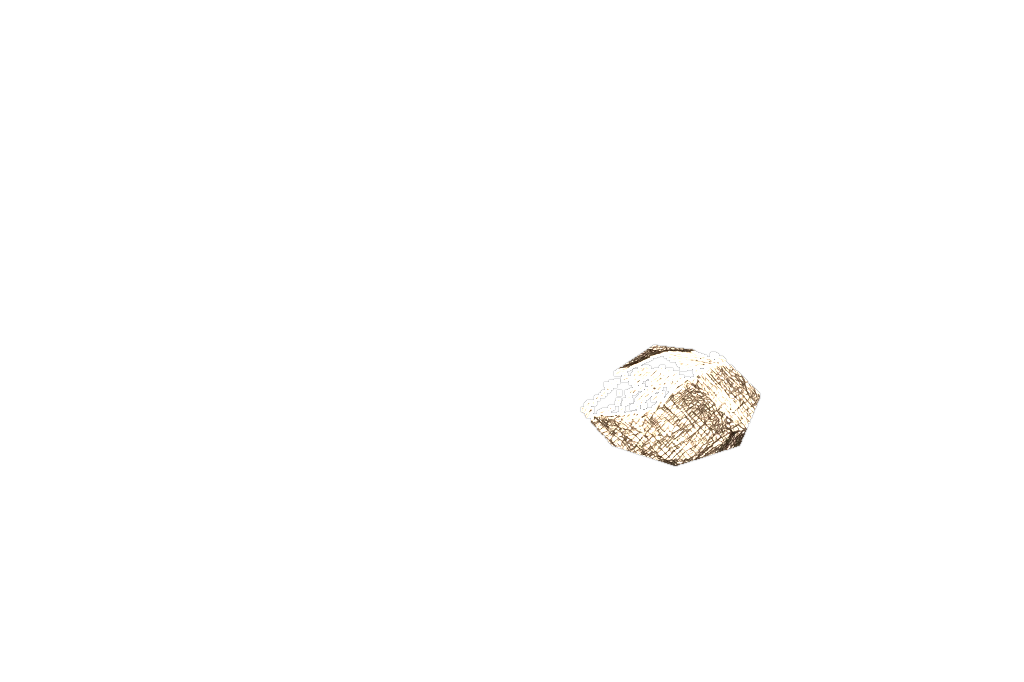
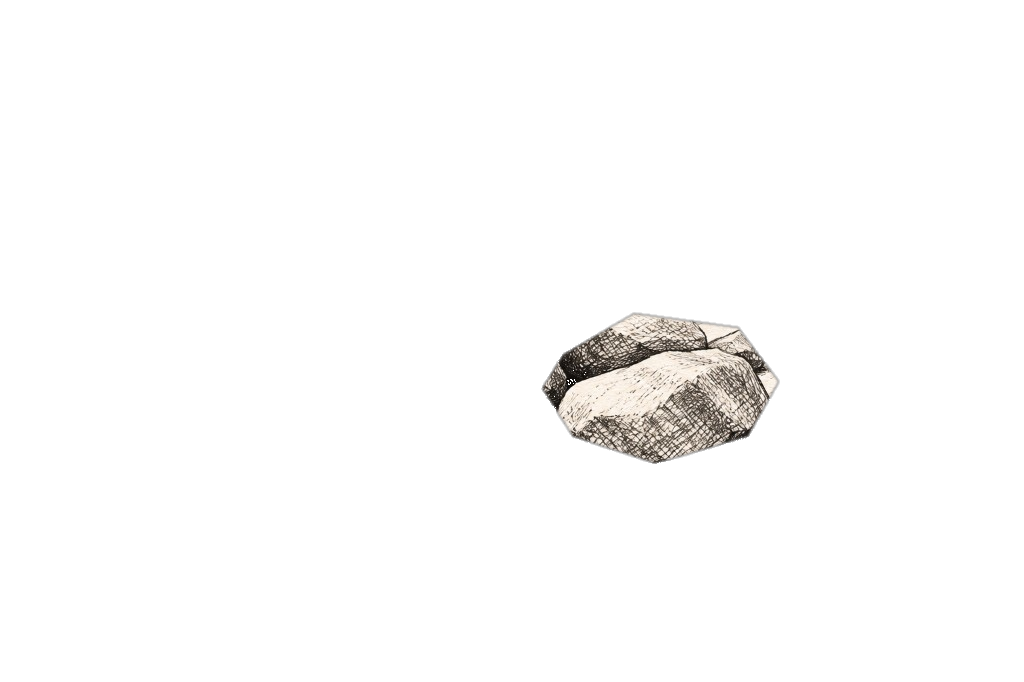
Keep the tree visible on hover and retune rock highlights.
Glow layers now mask the real artwork instead of covering it, bird hits use a padded flock mask, and rock cutouts are realigned to the stones.

Changed region(s): [[0.5312, 0.4619, 0.7812, 0.6774]]

diff --git a/index.html b/index.html
@@ -61,7 +61,7 @@
   <link rel="preconnect" href="https://fonts.gstatic.com" crossorigin />
   <link href="https://fonts.googleapis.com/css2?family=Playfair+Display:ital,wght@0,400;0,700;1,400;1,700&family=DM+Sans:wght@300;400;500&family=DM+Mono:wght@300;400&family=Space+Mono:wght@400;700&display=swap" rel="stylesheet" />
   <link rel="stylesheet" href="/css/lilbird-tokens.css?v=20260917k" />
-  <link rel="stylesheet" href="/css/lilbird-home.css?v=20261103b" />
+  <link rel="stylesheet" href="/css/lilbird-home.css?v=20261103c" />
   <link rel="stylesheet" href="/css/lilbird-chat.css?v=20260917k" />
   <!-- Google Tag Manager -->
   <script src="/lilbird-gtm-id.js"></script>
@@ -297,16 +297,16 @@
     <div class="rocks-stage reveal reveal-delay-2" id="rocks-stage">
       <img class="rocks-art" src="/images/home/backpack-rocks.jpg" alt="A sketched blue backpack on the floor with rocks and Big Bird spilling out" width="1024" height="682" loading="lazy" decoding="async" />
       <div class="hotspot-glows" aria-hidden="true">
-        <img class="hotspot-glow" data-glow="rock-1" src="/images/home/hotspots/rock-1-full.png" alt="" width="1024" height="682" decoding="async" />
-        <img class="hotspot-glow" data-glow="rock-2" src="/images/home/hotspots/rock-2-full.png" alt="" width="1024" height="682" decoding="async" />
-        <img class="hotspot-glow" data-glow="rock-3" src="/images/home/hotspots/rock-3-full.png" alt="" width="1024" height="682" decoding="async" />
-        <img class="hotspot-glow" data-glow="rock-4" src="/images/home/hotspots/rock-4-full.png" alt="" width="1024" height="682" decoding="async" />
+        <img class="hotspot-glow" data-glow="rock-1" src="/images/home/backpack-rocks.jpg" data-hit="/images/home/hotspots/rock-1-hit.png" style="--hotspot-mask:url('/images/home/hotspots/rock-1-full.png')" alt="" width="1024" height="682" decoding="async" />
+        <img class="hotspot-glow" data-glow="rock-2" src="/images/home/backpack-rocks.jpg" data-hit="/images/home/hotspots/rock-2-hit.png" style="--hotspot-mask:url('/images/home/hotspots/rock-2-full.png')" alt="" width="1024" height="682" decoding="async" />
+        <img class="hotspot-glow" data-glow="rock-3" src="/images/home/backpack-rocks.jpg" data-hit="/images/home/hotspots/rock-3-hit.png" style="--hotspot-mask:url('/images/home/hotspots/rock-3-full.png')" alt="" width="1024" height="682" decoding="async" />
+        <img class="hotspot-glow" data-glow="rock-4" src="/images/home/backpack-rocks.jpg" data-hit="/images/home/hotspots/rock-4-hit.png" style="--hotspot-mask:url('/images/home/hotspots/rock-4-full.png')" alt="" width="1024" height="682" decoding="async" />
       </div>
       <div class="hotspot-targets">
-        <button type="button" class="art-hotspot" data-glow="rock-1" data-phrase="I know something needs to change. I just can't name what." data-href="/articles/how-do-you-know-youre-ready-for-life-coaching.html" aria-label="Rock: I know something needs to change" style="left:26.5%;top:71.5%;width:16%;height:16.5%"></button>
-        <button type="button" class="art-hotspot" data-glow="rock-2" data-phrase="I keep having the same conversations with myself and going nowhere." data-href="/articles/stuck-between-two-paths.html" aria-label="Rock: same conversations going nowhere" style="left:43.5%;top:69%;width:15%;height:16.5%"></button>
-        <button type="button" class="art-hotspot" data-glow="rock-3" data-phrase="On paper, my life looks fine. From the inside, it doesn't feel like mine." data-href="/articles/on-paper-my-life-looks-fine.html" aria-label="Rock: on paper my life looks fine" style="left:56.5%;top:50%;width:19%;height:18%"></button>
-        <button type="button" class="art-hotspot" data-glow="rock-4" data-phrase="I'm not in crisis. I'm just stuck. And I'm tired of it." data-href="/articles/feeling-stuck-in-your-late-twenties.html" aria-label="Rock: not in crisis, just stuck" style="left:72.5%;top:66.5%;width:21%;height:27.5%"></button>
+        <button type="button" class="art-hotspot" data-glow="rock-1" data-phrase="I know something needs to change. I just can't name what." data-href="/articles/how-do-you-know-youre-ready-for-life-coaching.html" aria-label="Rock: I know something needs to change" style="left:20%;top:66%;width:23%;height:19%"></button>
+        <button type="button" class="art-hotspot" data-glow="rock-2" data-phrase="I keep having the same conversations with myself and going nowhere." data-href="/articles/stuck-between-two-paths.html" aria-label="Rock: same conversations going nowhere" style="left:39%;top:66%;width:16.5%;height:18.5%"></button>
+        <button type="button" class="art-hotspot" data-glow="rock-3" data-phrase="On paper, my life looks fine. From the inside, it doesn't feel like mine." data-href="/articles/on-paper-my-life-looks-fine.html" aria-label="Rock: on paper my life looks fine" style="left:53%;top:46%;width:23%;height:22%"></button>
+        <button type="button" class="art-hotspot" data-glow="rock-4" data-phrase="I'm not in crisis. I'm just stuck. And I'm tired of it." data-href="/articles/feeling-stuck-in-your-late-twenties.html" aria-label="Rock: not in crisis, just stuck" style="left:70%;top:63%;width:25%;height:27%"></button>
       </div>
       <div class="rock-pop" id="rock-pop" hidden>
         <p class="rock-pop-kicker">One of the rocks</p>
@@ -339,14 +339,14 @@
         <div class="nest-tree-stage" id="nest-tree-stage">
           <img src="/images/home/nest-tree.jpg" alt="Sketch of a tree with a high nest, birdhouse, and flock of birds" width="864" height="1152" loading="lazy" decoding="async" />
           <div class="hotspot-glows" aria-hidden="true">
-            <img class="hotspot-glow" data-glow="tree-nest" src="/images/home/hotspots/tree-nest-full.png" alt="" width="864" height="1152" decoding="async" />
-            <img class="hotspot-glow" data-glow="tree-house" src="/images/home/hotspots/tree-house-full.png" alt="" width="864" height="1152" decoding="async" />
-            <img class="hotspot-glow" data-glow="tree-birds" src="/images/home/hotspots/tree-birds-full.png" alt="" width="864" height="1152" decoding="async" />
+            <img class="hotspot-glow" data-glow="tree-nest" src="/images/home/nest-tree.jpg" data-hit="/images/home/hotspots/tree-nest-hit.png" style="--hotspot-mask:url('/images/home/hotspots/tree-nest-full.png')" alt="" width="864" height="1152" decoding="async" />
+            <img class="hotspot-glow" data-glow="tree-house" src="/images/home/nest-tree.jpg" data-hit="/images/home/hotspots/tree-house-hit.png" style="--hotspot-mask:url('/images/home/hotspots/tree-house-full.png')" alt="" width="864" height="1152" decoding="async" />
+            <img class="hotspot-glow" data-glow="tree-birds" src="/images/home/nest-tree.jpg" data-hit="/images/home/hotspots/tree-birds-hit.png" style="--hotspot-mask:url('/images/home/hotspots/tree-birds-full.png')" alt="" width="864" height="1152" decoding="async" />
           </div>
           <div class="hotspot-targets">
-            <button type="button" class="art-hotspot" data-glow="tree-nest" data-title="Nest" data-body="Free home base. See yourself clearly and keep what you find." aria-label="Nest: free home base" style="left:45.5%;top:14.5%;width:21%;height:14%"></button>
-            <button type="button" class="art-hotspot" data-glow="tree-house" data-title="Nest Plus" data-body="Deeper tools on your own time. $7.99 a month." aria-label="Nest Plus" style="left:35%;top:48%;width:9%;height:10%"></button>
-            <button type="button" class="art-hotspot" data-glow="tree-birds" data-title="Nest Premium" data-body="Live group coaching with others on the path, when open." aria-label="Nest Premium" style="left:66%;top:7%;width:20.5%;height:12.5%"></button>
+            <button type="button" class="art-hotspot" data-glow="tree-nest" data-title="Nest" data-body="Free home base. See yourself clearly and keep what you find." aria-label="Nest: free home base" style="left:46%;top:15%;width:21%;height:13%"></button>
+            <button type="button" class="art-hotspot" data-glow="tree-house" data-title="Nest Plus" data-body="Deeper tools on your own time. $7.99 a month." aria-label="Nest Plus" style="left:35%;top:48%;width:11%;height:10%"></button>
+            <button type="button" class="art-hotspot" data-glow="tree-birds" data-title="Nest Premium" data-body="Live group coaching with others on the path, when open." aria-label="Nest Premium" style="left:64%;top:5%;width:24%;height:16%"></button>
           </div>
           <div class="tree-tip-pop" id="tree-tip-pop" hidden>
             <strong class="tree-tip-title" id="tree-tip-title"></strong>
@@ -574,7 +574,7 @@
 <script src="/first-flight-booking.js"></script>
 <script src="/lb-chat-safe.js"></script>
 <script src="/js/lilbird-theme.js?v=20261103a"></script>
-<script src="/js/lilbird-home.js?v=20261103b"></script>
+<script src="/js/lilbird-home.js?v=20261103c"></script>
 <script src="/js/lilbird-chat.js"></script>
 </body>
 </html>

diff --git a/js/lilbird-home.js b/js/lilbird-home.js
@@ -360,17 +360,27 @@
       var g = glowMap[key];
       if (!g) return null;
       if (g.ctx) return g;
-      var w = g.img.naturalWidth;
-      var h = g.img.naturalHeight;
-      if (!w || !h) return null;
-      var canvas = document.createElement('canvas');
-      canvas.width = w;
-      canvas.height = h;
-      var ctx = canvas.getContext('2d', { willReadFrequently: true });
-      ctx.drawImage(g.img, 0, 0);
-      g.canvas = canvas;
-      g.ctx = ctx;
-      return g;
+      if (g.loading) return null;
+      var hitSrc = g.img.getAttribute('data-hit') || g.img.currentSrc || g.img.src;
+      g.loading = true;
+      var hitImg = new Image();
+      hitImg.decoding = 'async';
+      hitImg.onload = function () {
+        var w = hitImg.naturalWidth;
+        var h = hitImg.naturalHeight;
+        if (!w || !h) { g.loading = false; return; }
+        var canvas = document.createElement('canvas');
+        canvas.width = w;
+        canvas.height = h;
+        var ctx = canvas.getContext('2d', { willReadFrequently: true });
+        ctx.drawImage(hitImg, 0, 0);
+        g.canvas = canvas;
+        g.ctx = ctx;
+        g.loading = false;
+      };
+      hitImg.onerror = function () { g.loading = false; };
+      hitImg.src = hitSrc;
+      return null;
     }
 
     function clearLit() {

diff --git a/css/lilbird-home.css b/css/lilbird-home.css
@@ -1860,11 +1860,24 @@ footer, .site-footer {
   height: 100%;
   object-fit: fill;
   opacity: 0;
-  transition: opacity 0.18s ease;
-  filter: saturate(1.15) brightness(1.08);
+  transition: opacity 0.18s ease, filter 0.18s ease;
+  /* Masked copy of the base art — brightens the object, never covers the drawing with a plate */
+  -webkit-mask-image: var(--hotspot-mask);
+  mask-image: var(--hotspot-mask);
+  -webkit-mask-size: 100% 100%;
+  mask-size: 100% 100%;
+  -webkit-mask-repeat: no-repeat;
+  mask-repeat: no-repeat;
+  filter: brightness(1.38) saturate(1.2) contrast(1.06);
+  mix-blend-mode: soft-light;
 }
 .hotspot-glow.is-lit {
   opacity: 1;
+}
+.nest-tree-stage .hotspot-glow {
+  /* Screen keeps the etched tree visible while lifting nest / birds / house */
+  mix-blend-mode: screen;
+  filter: brightness(1.45) saturate(1.4) contrast(1.05);
 }
 .hotspot-targets {
   position: absolute;
